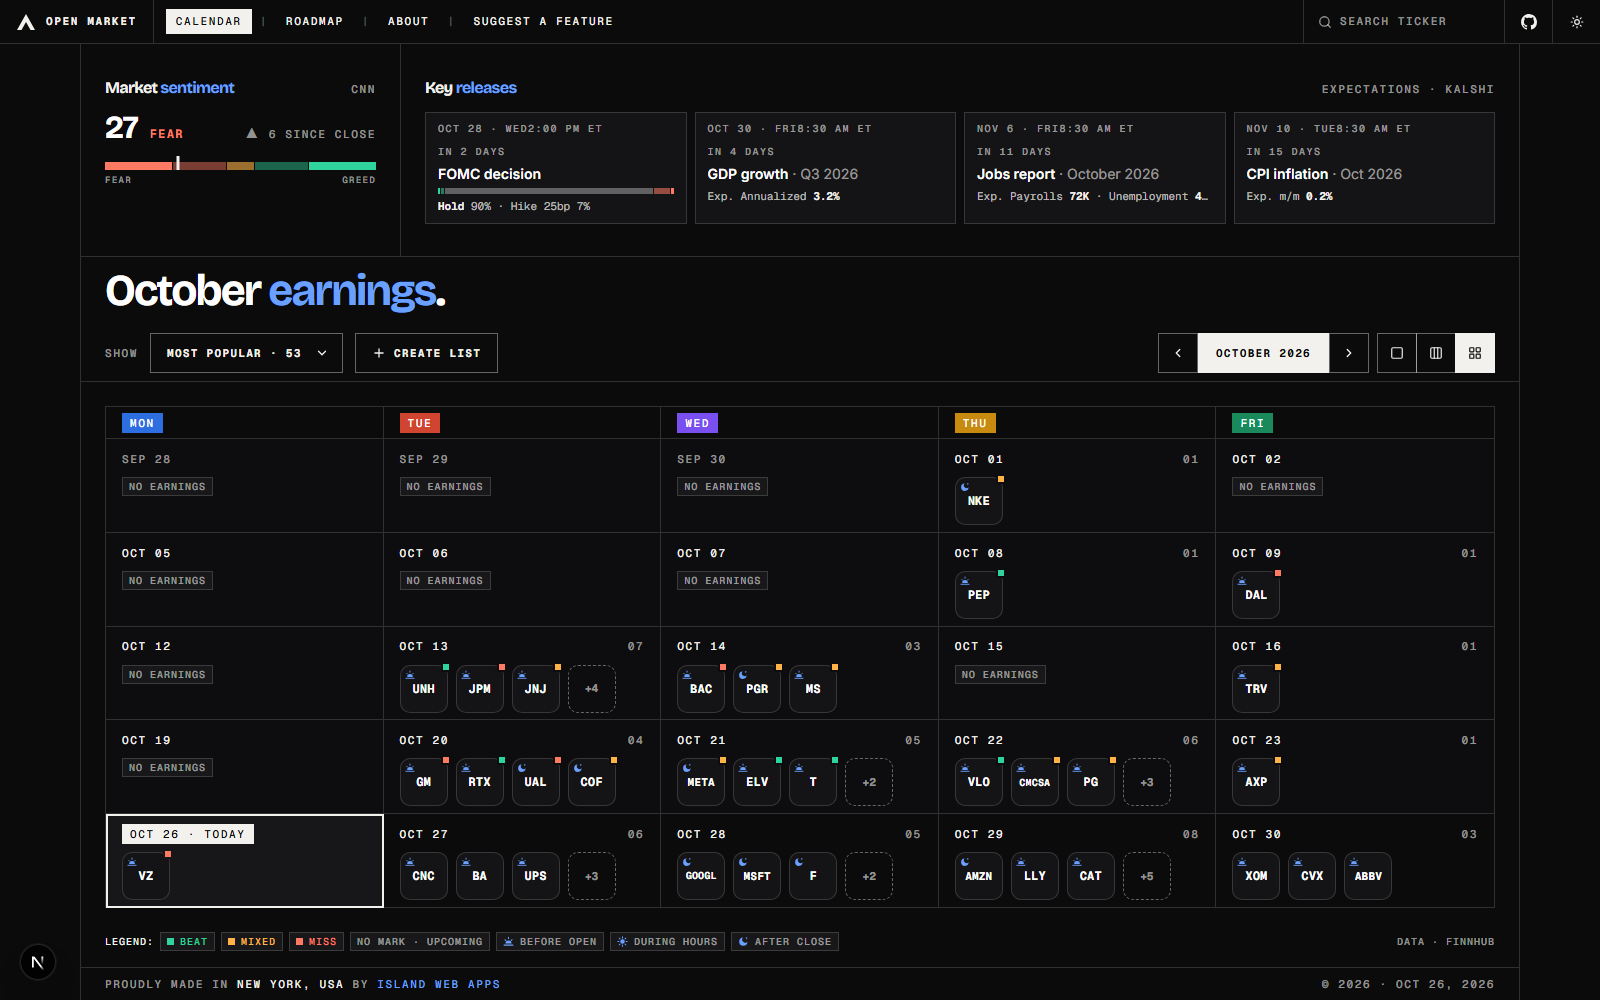
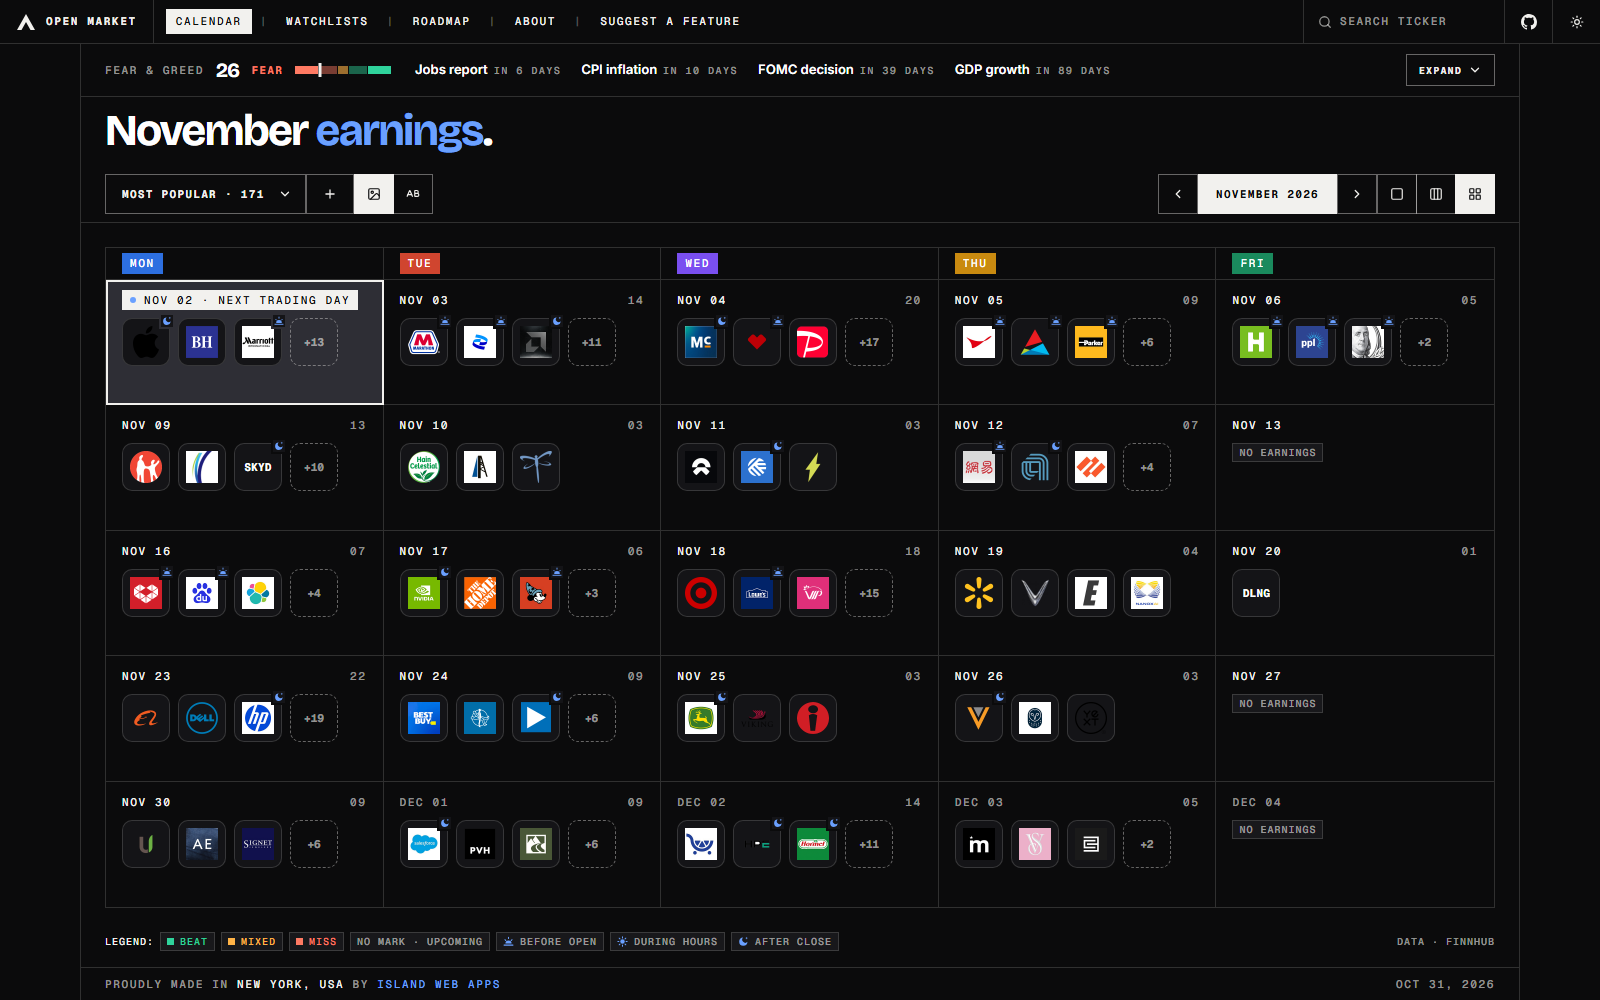
feat: enhance calendar views with next trading day support and update UI elements

diff --git a/src/lib/earnings.js b/src/lib/earnings.js
@@ -375,8 +375,9 @@ function viewPeriod({ mode, target, focus, today, href }) {
     title: month,
     label: `${month} ${target.year}`,
     unit: "month",
-    isCurrent: monthKey(target) === today.slice(0, 7),
-    currentName: MONTHS[parseIso(today).getUTCMonth()],
+    // The current month is the next trading day's, so a weekend ending the month counts as the next one
+    isCurrent: monthKey(target) === thisWeekday.slice(0, 7),
+    currentName: MONTHS[parseIso(thisWeekday).getUTCMonth()],
     todayHref: href({}),
     prevHref: href({ month: monthKey(shiftMonth(target, -1)) }),
     nextHref: href({ month: monthKey(shiftMonth(target, 1)) }),
@@ -393,6 +394,9 @@ export function buildCalendarView({ rows: allRows, directory, exchange, mode = "
   const monthLast = toIso(new Date(Date.UTC(target.year, target.month, 0)));
   // Days that count: the month itself in month view (not the grid's edge days), every day otherwise
   const [from, to] = mode === "month" ? [monthFirst, monthLast] : [period.start, period.end];
+
+  // Today, or the Monday after on a weekend
+  const tradingDay = weekdayOf(today);
 
   const { listed, shown } = filterRows({ rows: allRows, directory, exchange });
   const filters = directory ? buildFilters({ rows: listed, directory, from, to, exchange, params: period.params }) : [];
@@ -418,6 +422,8 @@ export function buildCalendarView({ rows: allRows, directory, exchange, mode = "
       // 0 = Monday … 4 = Friday
       weekday: dow - 1,
       isToday: iso === today,
+      // Weekends only: the Monday after, framed like today
+      isNextTradingDay: iso === tradingDay && iso !== today,
       isPast: iso < today,
       inPeriod,
       // This day on its own, with the same filter; month and week cells open it
@@ -434,8 +440,8 @@ export function buildCalendarView({ rows: allRows, directory, exchange, mode = "
   }
 
   // The weekday the other views open on: the one shown, else today in the current month, else the month's first
-  const anchor = focus ?? (period.isCurrent ? weekdayOf(today) : weekdayOf(monthFirst));
-  const todayDate = parseIso(today);
+  const anchor = focus ?? (period.isCurrent ? tradingDay : weekdayOf(monthFirst));
+  const tradingDate = parseIso(tradingDay);
   const viewHrefs = {
     day: href({ view: "day", date: anchor }),
     week: href({ view: "week", date: anchor }),
@@ -450,7 +456,9 @@ export function buildCalendarView({ rows: allRows, directory, exchange, mode = "
     days,
     total: periodCompanies.size,
     today,
-    todayLabel: `${WEEKDAYS[todayDate.getUTCDay()]} ${MONTHS[todayDate.getUTCMonth()]} ${todayDate.getUTCDate()}`,
+    // The cell "jump to today" lands on: today, or the next trading day on a weekend
+    tradingDay,
+    todayLabel: `${tradingDay === today ? "today" : "next trading day"}, ${WEEKDAYS[tradingDate.getUTCDay()]} ${MONTHS[tradingDate.getUTCMonth()]} ${tradingDate.getUTCDate()}`,
     isCurrent: period.isCurrent,
     currentName: period.currentName,
     filters,
@@ -469,13 +477,13 @@ export function buildCalendarView({ rows: allRows, directory, exchange, mode = "
   };
 }
 
-// Month → week → day trail above a week or day view: [{ label, href }], the last one (no href) being the view shown.
-// Null in month view.
+// Month → week → day trail above a week or day view: [{ label, href, desktopOnly }], the last one (no href) being the view shown.
+// The week link is desktop only, like the week view button. Null in month view.
 function breadcrumbFor({ mode, anchor, title, viewHrefs }) {
   if (mode === "month") return null;
   const { year, month } = monthOf(anchor);
   const trail = [{ label: `${MONTHS[month - 1]} ${year}`, href: viewHrefs.month }];
-  if (mode === "day") trail.push({ label: `Week of ${shortLabel(mondayOf(anchor))}`, href: viewHrefs.week });
+  if (mode === "day") trail.push({ label: `Week of ${shortLabel(mondayOf(anchor))}`, href: viewHrefs.week, desktopOnly: true });
   trail.push({ label: title, href: null });
   return trail;
 }

diff --git a/src/components/earnings/earnings-calendar.jsx b/src/components/earnings/earnings-calendar.jsx
@@ -16,11 +16,17 @@ import { SiteHeader } from "./site-header";
 import { StatusLegend } from "./status-legend";
 import { useCompanySearch } from "./use-company-search";
 
-// Centres a day's cell on screen; jumps instead of gliding for visitors who prefer reduced motion
-function scrollToDay(key) {
+// Centres a day's cell on screen; jumps instead of gliding for visitors who prefer reduced motion.
+// `block` "nearest" suits the day view, taller than the screen: it only scrolls when the day is out of view.
+function scrollToDay(key, block = "center") {
   const behavior = window.matchMedia("(prefers-reduced-motion: reduce)").matches ? "instant" : "smooth";
-  document.getElementById(`day-${key}`)?.scrollIntoView({ behavior, block: "center", inline: "center" });
+  document.getElementById(`day-${key}`)?.scrollIntoView({ behavior, block, inline: "center" });
 }
+
+// Wait before gliding to the day: longer on the first load so the title and filters are seen first,
+// short after switching views so the cell ↔ day morph finishes first
+const FIRST_SCROLL_MS = 1000;
+const SWITCH_SCROLL_MS = 300;
 
 export function EarningsCalendar({ view, sentiment, events, marketExpanded }) {
   const [query, setQuery] = useState("");
@@ -137,12 +143,19 @@ export function EarningsCalendar({ view, sentiment, events, marketExpanded }) {
     selectEarnings(earnings);
   };
 
-  const jumpToToday = () => scrollToDay(view.today);
+  const jumpToToday = () => scrollToDay(view.tradingDay);
 
-  // Open at the top so the title and filters are seen first, then glide to today's cell after a second.
-  // Called off if the visitor scrolls, taps or types first; no-op when the month shown doesn't include today.
+  // The day to bring into view: the one shown in day view, else today's cell (the next trading day's on a weekend)
+  const focusDay = view.mode === "day" ? view.days[0].key : view.tradingDay;
+  // The page stays mounted when the view changes, so this tells the first load from a later switch
+  const firstView = useRef(`${view.mode}|${focusDay}`);
+
+  // Open at the top, then glide to the day; again on every switch between day, week and month.
+  // Called off if the visitor scrolls, taps or types first; no-op when the view shown doesn't include that day.
   useEffect(() => {
-    const timer = setTimeout(() => scrollToDay(view.today), 1000);
+    const first = firstView.current === `${view.mode}|${focusDay}`;
+    const block = view.mode === "day" ? "nearest" : "center";
+    const timer = setTimeout(() => scrollToDay(focusDay, block), first ? FIRST_SCROLL_MS : SWITCH_SCROLL_MS);
     const cancel = () => clearTimeout(timer);
     const events = ["wheel", "touchstart", "pointerdown", "keydown"];
     events.forEach((type) => window.addEventListener(type, cancel, { once: true, passive: true }));
@@ -150,7 +163,7 @@ export function EarningsCalendar({ view, sentiment, events, marketExpanded }) {
       cancel();
       events.forEach((type) => window.removeEventListener(type, cancel));
     };
-  }, [view.today]);
+  }, [view.mode, focusDay]);
 
   return (
     <div className="relative flex flex-1 flex-col">

diff --git a/src/components/earnings/month-grid.jsx b/src/components/earnings/month-grid.jsx
@@ -42,8 +42,11 @@ function MoreTile({ day, matches, onShowMore }) {
   );
 }
 
-// Days the mobile agenda folds into one line. Today always keeps its own row, so "jump to today" has somewhere to land.
-const isFoldedEmpty = (day) => day.inPeriod && day.count === 0 && !day.isToday;
+// Today, or on a weekend the next trading day: framed, labelled and scrolled to
+const isHighlighted = (day) => day.isToday || day.isNextTradingDay;
+
+// Days the mobile agenda folds into one line. The highlighted day always keeps its own row, so "jump to today" has somewhere to land.
+const isFoldedEmpty = (day) => day.inPeriod && day.count === 0 && !isHighlighted(day);
 
 // Back-to-back folded days, keyed by the index of each run's first day
 function emptyRuns(days) {
@@ -113,7 +116,7 @@ function DayCell({ day, capacity, isLastColumn, filtering, isMatch, onSelect, on
         // empty days there are folded into an EmptyRun line
         (!day.inPeriod || isFoldedEmpty(day)) && "max-md:hidden",
         // Inset outline so the thicker frame doesn't shift the grid; outlines paint over the week view's tinted sections
-        day.isToday && "outline-2 -outline-offset-2 outline-foreground"
+        isHighlighted(day) && "outline-2 -outline-offset-2 outline-foreground"
       )}
     >
       {/* Sticks to the top of the screen in the agenda while its day's tiles scroll by */}
@@ -121,7 +124,7 @@ function DayCell({ day, capacity, isLastColumn, filtering, isMatch, onSelect, on
         className={cn(
           "flex min-h-5 items-center justify-between font-mono text-[11px] font-medium tracking-[0.15em] max-md:sticky max-md:top-0 max-md:z-10 max-md:py-2.5",
           // Bleeds to the cell's edges so tiles don't show beside it; on today it stops inside the 2px frame
-          day.isToday
+          isHighlighted(day)
             ? "max-md:-mx-3.5 max-md:-mt-2 max-md:px-3.5"
             : "max-md:-mx-4 max-md:-mt-2.5 max-md:px-4",
           background
@@ -136,16 +139,16 @@ function DayCell({ day, capacity, isLastColumn, filtering, isMatch, onSelect, on
           <span className={cn("px-2 py-0.5 text-white md:hidden", WEEKDAY_BADGES[day.weekday])}>
             {WEEKDAYS[day.weekday]}
           </span>
-          {day.isToday ? (
-            <span className="flex items-center gap-2 bg-foreground px-2 py-0.5 text-background">
+          {isHighlighted(day) ? (
+            <span className="flex items-center gap-2 bg-foreground px-2 py-0.5 whitespace-nowrap text-background">
               <TodayDot />
-              {day.label} · TODAY
+              {day.label} · {day.isToday ? "TODAY" : "NEXT TRADING DAY"}
             </span>
           ) : (
             <span className={day.inPeriod ? "text-foreground" : "text-muted-foreground"}>{day.label}</span>
           )}
         </Link>
-        {!day.isToday && day.count > 0 && (
+        {!isHighlighted(day) && day.count > 0 && (
           <span className="text-muted-foreground">{String(day.count).padStart(2, "0")}</span>
         )}
         {day.count === 0 && <span className="text-muted-foreground md:hidden">NO EARNINGS</span>}

diff --git a/src/components/earnings/calendar-toolbar.jsx b/src/components/earnings/calendar-toolbar.jsx
@@ -8,17 +8,18 @@ import { cn } from "@/lib/utils";
 const square = "grid size-10 place-items-center border border-line-strong text-foreground";
 const pressed = "bg-foreground text-background";
 
+// `desktopOnly`: hidden below md, where the week view's stacked days read too much like the month agenda
 const VIEWS = [
   { value: "day", label: "Day view", Icon: SquareIcon },
-  { value: "week", label: "Week view", Icon: Columns3Icon },
+  { value: "week", label: "Week view", Icon: Columns3Icon, desktopOnly: true },
   { value: "month", label: "Month view", Icon: LayoutGridIcon },
 ];
 
 const currentButton = "grid h-10 cursor-pointer place-items-center bg-foreground px-4.5 text-background uppercase";
 
 export function CalendarToolbar({ view, onToday }) {
-  // Shows the month / week / day on screen. On the current one it scrolls to today; on any other it goes back to the current one
-  const currentLabel = view.isCurrent ? `Jump to today, ${view.todayLabel}` : `Go to ${view.currentName}`;
+  // Shows the month / week / day on screen. On the current one it scrolls to today (or the next trading day); on any other it goes back to the current one
+  const currentLabel = view.isCurrent ? `Jump to ${view.todayLabel}` : `Go to ${view.currentName}`;
 
   return (
     <div className="flex flex-wrap font-mono text-[11px] font-bold tracking-[0.12em] uppercase">
@@ -41,7 +42,7 @@ export function CalendarToolbar({ view, onToday }) {
       </div>
 
       <nav aria-label="Calendar view" className="flex">
-        {VIEWS.map(({ value, label, Icon }) => (
+        {VIEWS.map(({ value, label, Icon, desktopOnly }) => (
           <Link
             key={value}
             href={view.viewHrefs[value]}
@@ -49,7 +50,12 @@ export function CalendarToolbar({ view, onToday }) {
             aria-label={label}
             title={label}
             aria-current={value === view.mode ? "page" : undefined}
-            className={cn(square, "-ml-px no-underline first:ml-0", value === view.mode && pressed)}
+            className={cn(
+              square,
+              "-ml-px no-underline first:ml-0",
+              value === view.mode && pressed,
+              desktopOnly && "max-md:hidden"
+            )}
           >
             <Icon className="size-3.5" aria-hidden="true" />
           </Link>
@@ -105,8 +111,8 @@ export function CalendarBreadcrumb({ view }) {
   return (
     <nav aria-label="Breadcrumb" className="eyebrow border-b px-6 py-2.5">
       <ol className="m-0 flex list-none flex-wrap items-center gap-1.5 p-0">
-        {view.breadcrumb.map(({ label, href }, i) => (
-          <li key={label} className="flex items-center gap-1.5">
+        {view.breadcrumb.map(({ label, href, desktopOnly }, i) => (
+          <li key={label} className={cn("flex items-center gap-1.5", desktopOnly && "max-md:hidden")}>
             {i > 0 && <ChevronRightIcon className="size-3 text-muted-foreground" strokeWidth={2.2} aria-hidden="true" />}
             {href ? (
               <Link href={href} scroll={false} className="text-muted-foreground no-underline hover:text-foreground">

diff --git a/src/components/earnings/day-view.jsx b/src/components/earnings/day-view.jsx
@@ -70,15 +70,19 @@ export function DayView({ day, isMatch, onSelect }) {
   return (
     <div
       id={`day-${day.key}`}
-      className={cn("m-6 flex flex-1 flex-col border", background, day.isToday && "border-2 border-foreground")}
+      className={cn(
+        "m-6 flex flex-1 flex-col border",
+        background,
+        (day.isToday || day.isNextTradingDay) && "border-2 border-foreground"
+      )}
     >
       <div className="flex h-8 shrink-0 items-center justify-between border-b px-4 font-mono text-[11px] font-medium tracking-[0.15em]">
         <span className={cn("px-2 py-0.5 text-white", WEEKDAY_BADGES[day.weekday])}>0{day.weekday + 1}</span>
         <span className="flex items-center gap-2 text-muted-foreground">
-          {day.isToday && (
+          {(day.isToday || day.isNextTradingDay) && (
             <>
               <TodayDot />
-              <span className="text-foreground">TODAY</span> ·
+              <span className="text-foreground">{day.isToday ? "TODAY" : "NEXT TRADING DAY"}</span> ·
             </>
           )}
           {day.count} {day.count === 1 ? "COMPANY" : "COMPANIES"}

diff --git a/src/app/page.js b/src/app/page.js
@@ -38,7 +38,8 @@ async function Calendar({ searchParams }) {
   const filter = await requestFilter(exchange);
 
   const today = todayInNewYork();
-  const current = { year: Number(today.slice(0, 4)), month: Number(today.slice(5, 7)) };
+  // The month of the next trading day: on a weekend that ends the month, the next month opens
+  const current = monthOf(weekdayOf(today));
   const mode = parseViewMode(viewParam);
   // Week and day views are built around one weekday and load the month it falls in
   const focus = mode === "month" ? null : weekdayOf(parseDateKey(date) ?? today);

diff --git a/src/components/earnings/ticker-tile.jsx b/src/components/earnings/ticker-tile.jsx
@@ -15,7 +15,7 @@ function tickerSize(ticker) {
 
 // Day background and the matching border for status dots, so a dot reads as cut out of the tile
 export function dayColors(day) {
-  if (day.isToday) return { background: "bg-bg-today", dotBorder: "border-bg-today" };
+  if (day.isToday || day.isNextTradingDay) return { background: "bg-bg-today", dotBorder: "border-bg-today" };
   if (day.isPast) return { background: "bg-bg-past", dotBorder: "border-bg-past" };
   return { background: "bg-background", dotBorder: "border-background" };
 }

diff --git a/README.md b/README.md
@@ -8,7 +8,7 @@ It starts with an earnings calendar and market context. What comes next is up to
 
 <picture>
   <source media="(prefers-color-scheme: dark)" srcset="docs/images/calendar-dark.png">
-  <img alt="Open Market's main page: the market sentiment meter and upcoming Fed, GDP, jobs and CPI releases above an October earnings calendar, with each company's ticker marked by when it reports and whether it beat or missed" src="docs/images/calendar-light.png">
+  <img alt="Open Market's main page: a Fear &amp; Greed reading and countdowns to the next jobs, CPI, FOMC and GDP releases above a November earnings calendar, with the next trading day framed and each company's logo marked by when it reports" src="docs/images/calendar-light.png">
 </picture>
 
 ▶ **[Watch the 1-minute tour](docs/video/open-market-tour.webm)**: the market panel, the calendar, company details, search, views, watchlists, and voting on the roadmap.
